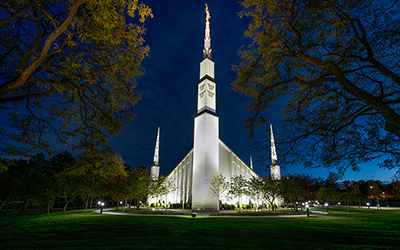
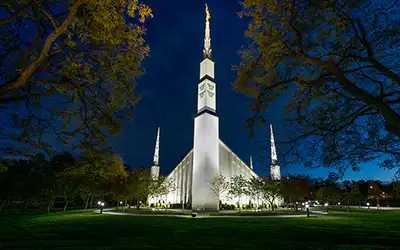
updated picture

diff --git a/temples.html b/temples.html
@@ -43,7 +43,7 @@
                 <figcaption>Bountiful, Utah</figcaption>
             </figure>
             <figure>
-                <img src="images/chicagoIllinois.webp" alt="Chicago">
+                <img src="images/chicagoIllinois.jpg" alt="Chicago">
                 <figcaption> Chicago, Illinois</figcaption>
             </figure>
             <figure>
